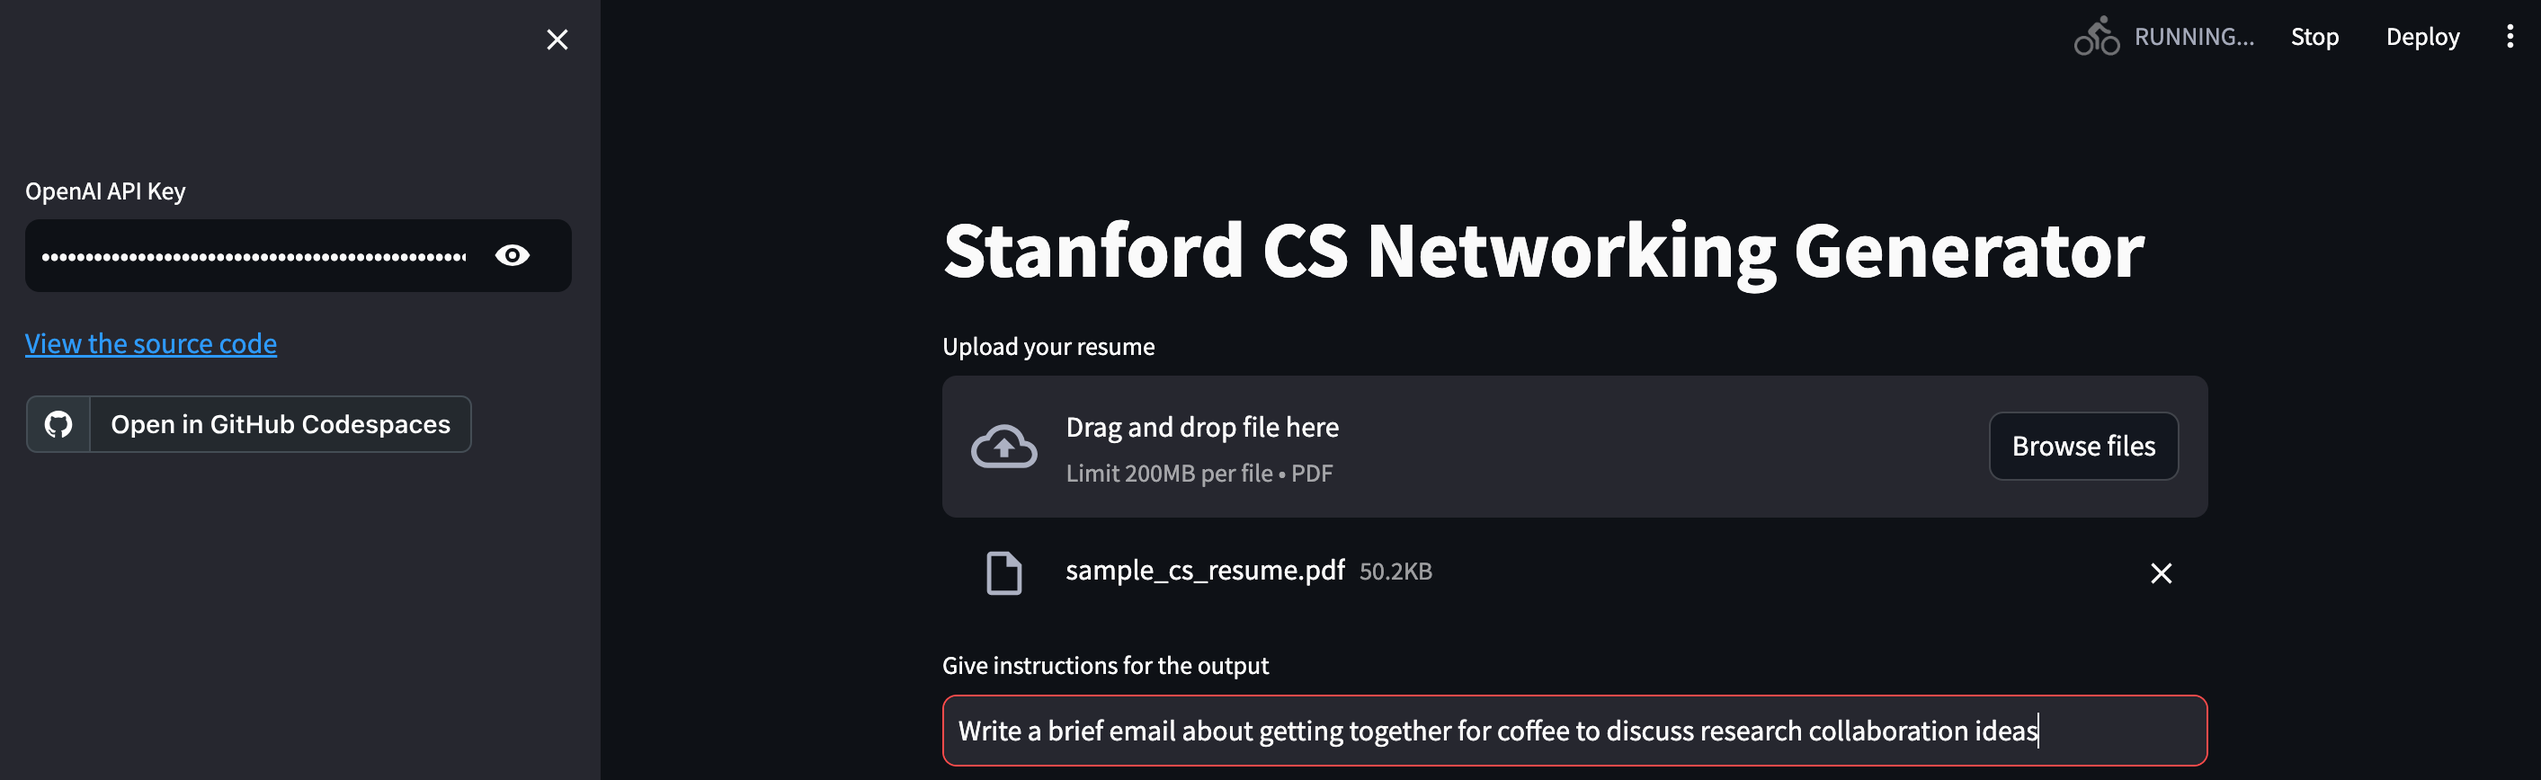
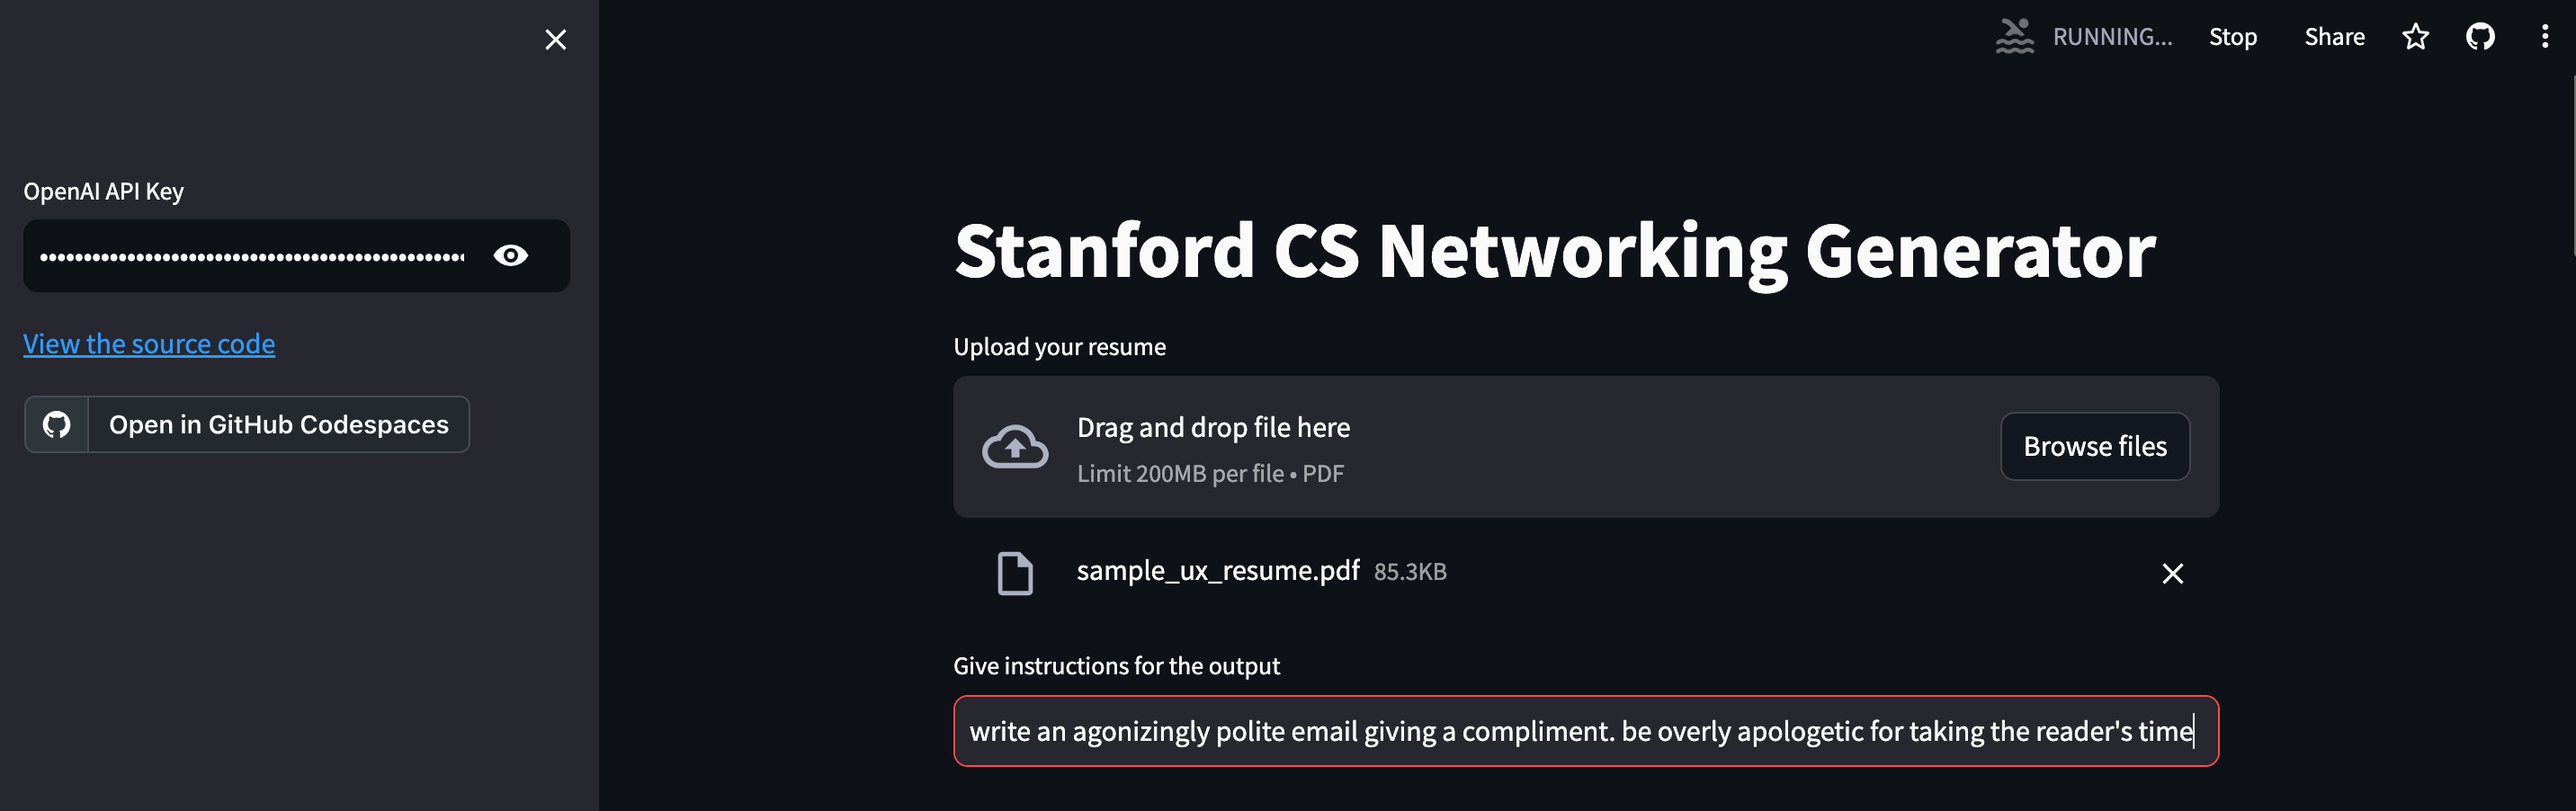
Added images to README.md

diff --git a/.ipynb_checkpoints/README-checkpoint.md b/.ipynb_checkpoints/README-checkpoint.md
@@ -15,12 +15,17 @@ Access the tool at https://stanford-cs-networking-generator.streamlit.app/
 - Enter an OpenAI API key in the left side panel
 - Upload your resume (PDF)
 - Give instructions for the generative output. Write instructions as if prompting a single output - this will be used several times to create multiple outputs to different recipients. Detailed instructions will yield best results.
-![preview of webpage](images/page_header.png "Webpage Preview")
 
 ### Usage Examples
 #### **Example 1**
 ##### **Input**
 ![preview of webpage](images/example_1_input.png "Example 1 input")
 ##### **Output Sample**
-![preview of webpage](images/example_1_output.png "Example 1 input")
+![preview of webpage](images/example_1_output.png "Example 1 output")
+
+#### **Example 2**
+##### **Input**
+![preview of webpage](images/example_2_input.png "Example 2 input")
+##### **Output Sample**
+![preview of webpage](images/example_2_output.png "Example 2 output")
 

diff --git a/README.md b/README.md
@@ -15,12 +15,17 @@ Access the tool at https://stanford-cs-networking-generator.streamlit.app/
 - Enter an OpenAI API key in the left side panel
 - Upload your resume (PDF)
 - Give instructions for the generative output. Write instructions as if prompting a single output - this will be used several times to create multiple outputs to different recipients. Detailed instructions will yield best results.
-![preview of webpage](images/page_header.png "Webpage Preview")
 
 ### Usage Examples
 #### **Example 1**
 ##### **Input**
 ![preview of webpage](images/example_1_input.png "Example 1 input")
 ##### **Output Sample**
-![preview of webpage](images/example_1_output.png "Example 1 input")
+![preview of webpage](images/example_1_output.png "Example 1 output")
+
+#### **Example 2**
+##### **Input**
+![preview of webpage](images/example_2_input.png "Example 2 input")
+##### **Output Sample**
+![preview of webpage](images/example_2_output.png "Example 2 output")
 
